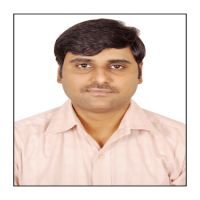
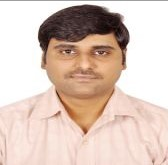
updated css gallery, faculty, recruiters, admissions,adv.

diff --git a/src/Advantage/MSIT-Advantage.js b/src/Advantage/MSIT-Advantage.js
@@ -17,7 +17,9 @@ const info = [
     name: "Learning By Doing",
     image: LBD,
     body:
-      "The methodology of “Learning By Doing” is a unique one adopted by MSIT. It aims at giving hands - on experience which helps the students understand the practical implementation aspects and the concepts associated with it. MSIT’s “Learning by Doing” method involves learning in a project-centric way. This helps students to solve problems by applying concepts. Each course is broken into manageable modules each of which is offered as a project to be worked on.",
+      "The methodology of “Learning By Doing” is a unique one adopted by MSIT. It aims at giving hands - on experience which helps the students understand the practical implementation aspects and the concepts associated with it. MSIT’s “Learning by Doing” method involves learning in a project-centric way. This helps students to solve problems by applying concepts.",
+    sub:
+      "Each course is broken into manageable modules each of which is offered as a project to be worked on. Students work in teams with a corporate-like environment. The students understand the concept while working on the project and submit the relevant tasks (deliverables) within the deadline specified by their mentors. The students get the required guidance and support at every level from the mentors who have a wide knowledge base which enhances the knowledge of the students. Each course is offered by a principal mentor and the student: mentor ratio at MSIT stands out to be 10:1 giving enough scope for the students to interact with their mentor whenever required. Personalized mentoring at MSIT aims at nurturing the students in every way. Students are given individual workstations with laptops and 24x7 internet facilities. Rich digital content with strong audio-visual support alongside constant mentoring provides them with the necessary platform, with lectures by eminent people also. Therefore, MSIT students gain hands-on experience from innovative learning solutions.",
   },
   {
     id: 2,
@@ -26,6 +28,8 @@ const info = [
     image: PCC,
     body:
       "Project centric curriculum offers practical hands on experience to master the implementation aspects of the concepts related to each course. Each course is broken into manageable modules each of which is offered as a project to be worked on. Students work in teams with a corporate like environment. The students understand the concept while working on the project and submit the relevant tasks (deliverables) within the deadline specified by their mentors. The students get the required guidance and support at every level from the mentors who have a wide knowledge base which would be helpful for the growth of students.",
+    sub:
+      "For example, if a student is being offered a course on data structures, he would be asked to work on a project like ‘Mini Google search engine’ which would enable them to understand the various algorithms involved and assimilate the underlying concepts to develop this project. Another simulation is, for the Networks course they need to come up with a File Protocol and similarly for the Database course ‘Airline Reservation System’. In addition to this, Concept tests, Programming Concepts and Quizzes are held. Therefore, MSIT students gain hands-on experience while conditioning themselves, and looking for innovative learning solutions.",
   },
   {
     id: 3,
@@ -34,6 +38,8 @@ const info = [
     image: SS,
     body:
       "In a rapidly changing work environment which is technology- driven and customer oriented in an information based economy, the reliance on Soft Skills is more relevant than ever. The training is spread throughout the year and not just limited to a few days. In-house training to develop LSRW (Listening, Speaking, Reading, Writing) skills, life skills training by corporate professionals and rich digital content (e-modules) represent the threefold approach adopted by MSIT.",
+    sub:
+      "Presentations, Group Discussions and Debates are given for weekly assessment. These are conducted by a mediator/facilitator, a Soft skills mentor who evaluates and critically analyses them and gives feedback while also providing tips for self-improvement. Also played are lectures by eminent speakers on life skills, motivational videos, apart from Role-Plays being conducted, to enable the students to face life boldly. Hence, a comprehensive Soft skills training turns the student to an effective solution provider. The latest inclusion is of theater based soft skills training methodology through which the students get acquainted with the essential business etiquette skills. They are given the freedom to think creatively and the aspect of logical as well as critical thinking is enhanced through role plays.",
   },
   {
     id: 4,
@@ -41,7 +47,9 @@ const info = [
     name: "Resources For Students",
     image: Infrastructuretwo,
     body:
-      "State of the Art Infrastructure: The students use laptops for performing their tasks, oriented towards their project work and a well-established wired and wireless network are made available 24x7. High end communication mechanisms are used for collaborating with globally distributed teams across learning centers. We will be providing high band-width internet connectivity, 24x7 lab facility, expert faculty.",
+      "State of the Art Infrastructure: The students use laptops for performing their tasks, oriented towards their project work and a well-established wired and wireless network are made available 24x7. High end communication mechanisms are used for collaborating with globally distributed teams across learning centers.",
+    sub:
+      "We will be providing high band-width internet connectivity, 24x7 lab facility, expert faculty.",
   },
   {
     id: 5,
@@ -49,7 +57,9 @@ const info = [
     name: "Infrastructure",
     image: Infrastructure,
     body:
-      "State of the art infrastructural facilities are provided to the MSIT students at each of the learning centers.The learning centers are located in universities with sprawling campuses marked by awesome buildings and spacious lawns. Every learning center has state-of-art computer laboratories which are open for 24x7 with ultra-modern workstations. All the systems are intra-networked and a high bandwidth Internet connection is given to all the students for 24x7.Library access is given to all the students in the respective learning centers.",
+      "State of the art infrastructural facilities are provided to the MSIT students at each of the learning centers.The learning centers are located in universities with sprawling campuses marked by awesome buildings and spacious lawns. Every learning center has state-of-art computer laboratories which are open for 24x7 with ultra-modern workstations.",
+    sub:
+      "All the systems are intra-networked and a high bandwidth Internet connection is given to all the students for 24x7.Library access is given to all the students in the respective learning centers.",
   },
 ];
 
@@ -99,6 +109,7 @@ class App extends React.Component {
                   //   qualification={post.qualification}
                   //   subtitle={post.subtitle}
                   body={post.body}
+                  sub={post.sub}
                 />
               </Fragment>
             );
@@ -113,6 +124,7 @@ class App extends React.Component {
                   //   qualification={post.qualification}
                   //   subtitle={post.subtitle}
                   body={post.body}
+                  sub={post.sub}
                 />
               </Fragment>
             );

diff --git a/src/AboutMsit/CertificationAndLearningCenters.js b/src/AboutMsit/CertificationAndLearningCenters.js
@@ -96,14 +96,17 @@ class App extends React.Component {
               </p>
 
               <table>
-                <tr style={{ backgroundColor: "#757070", color: "white" }}>
+                <tr
+                  className="table-color"
+                  style={{ backgroundColor: "#757070", color: "white" }}
+                >
                   <th>S.No</th>
                   <th>Learning Center</th>
                   <th>University</th>
                   <th>Intake</th>
                 </tr>
 
-                <tr>
+                <tr className="table-color">
                   <td>1</td>
                   <td>
                     <Link
@@ -120,7 +123,7 @@ class App extends React.Component {
                   <td>110</td>
                 </tr>
 
-                <tr>
+                <tr className="table-color">
                   <td>2</td>
                   <td>
                     <Link
@@ -137,7 +140,7 @@ class App extends React.Component {
                   <td>100</td>
                 </tr>
 
-                <tr>
+                <tr className="table-color">
                   <td>3</td>
                   <td>
                     <Link
@@ -154,7 +157,7 @@ class App extends React.Component {
                   <td>50</td>
                 </tr>
 
-                <tr>
+                <tr className="table-color">
                   <td>4</td>
                   <td>
                     <Link
@@ -171,7 +174,7 @@ class App extends React.Component {
                   <td>50</td>
                 </tr>
 
-                <tr>
+                <tr className="table-color">
                   <td>5</td>
                   <td>
                     <Link

diff --git a/src/components/Header.js b/src/components/Header.js
@@ -154,10 +154,16 @@ function App() {
                 Walk-in Process
               </Link>
 
-              <a className="dropdown-item" href="#">
+              <a
+                className="dropdown-item"
+                href="https://online.cbexams.com/RPS/MSIT/Practice_Instructions.aspx"
+              >
                 Mock-Test
               </a>
-              <a className="dropdown-item" href="#">
+              <a
+                className="dropdown-item"
+                href="https://www.msitprogram.net/admissions/"
+              >
                 Apply Online
               </a>
               <Link to="/schedule" className="dropdown-item">
@@ -198,7 +204,10 @@ function App() {
                 Placements
               </Link>
 
-              <a className="dropdown-item" href="#">
+              <a
+                className="dropdown-item"
+                href="https://www.msitprogram.net/Placementhistory.php"
+              >
                 Placements History
               </a>
 

diff --git a/src/AboutMsit/MsitProgram.js b/src/AboutMsit/MsitProgram.js
@@ -40,7 +40,9 @@ class App extends React.Component {
             id="charter"
             //   style={{ paddingBottom: 0 }}
           >
-            <h1 style={{ paddingBottom: "10px" }}>MSIT Charter</h1>
+            <h2 style={{ paddingBottom: "10px" }} className="title-text">
+              MSIT Charter
+            </h2>
             <p>
               To prepare very high quality IT professionals for a global market
               by grooming them in IT and Soft Skills.
@@ -63,9 +65,8 @@ class App extends React.Component {
               domains.
             </p>
           </div>
-          <p id="MsitProgram"></p>
-          <div className="content-overview shadows">
-            <h1>MSIT Program</h1>
+          <div className="content-overview shadows" id="MsitProgram">
+            <h2 className="title-text">MSIT Program</h2>
             <img
               src={MsitAdv}
               style={{ width: "38%", float: "right", paddingLeft: "2%" }}

diff --git a/src/faculty/SSmentors.js b/src/faculty/SSmentors.js
@@ -28,7 +28,7 @@ const SSstaff = [
   {
     id: 3,
     name: "Poolla Vaidehi",
-    image: require("../images/faculty/IT/6702.1091.noimage.jpg"),
+    image: require("../images/faculty/IT/Vydehi.jpg"),
     position: "Soft Skills Mentor",
     email: "vydehi@msitprogram.net",
   },
@@ -55,15 +55,15 @@ const SSstaff = [
   },
   {
     id: 7,
-    name: "Amrita Paul",
-    image: require("../images/faculty/IT/6702.1091.noimage.jpg"),
+    name: "Savitha Menon",
+    image: require("../images/faculty/IT/savitha (1).jpg"),
     position: "Soft Skills Mentor",
-    email: "amritapaul@msitprogram.net",
+    email: "savitha.menon@msitprogram.net",
   },
   {
     id: 8,
     name: "G Srujana",
-    image: require("../images/faculty/IT/6702.1091.noimage.jpg"),
+    image: require("../images/faculty/IT/Srujana.jpg"),
     position: "Soft Skills Mentor",
     email: "srujana.gankidi@msitprogram.net",
   },

diff --git a/src/faculty/ITmentors.js b/src/faculty/ITmentors.js
@@ -129,21 +129,21 @@ const ITstaff = [
   {
     id: 17,
     name: "Deepak kumar Reddy",
-    image: require("../images/faculty/IT/Deepak.jpg"),
+    image: require("../images/faculty/IT/Deepak_kumar.jpg"),
     position: "Assistant Mentor",
     email: "deepakbhimavarapu@msitprogram.net",
   },
   {
     id: 18,
     name: "A Manasa",
-    image: require("../images/faculty/IT/Manasa.jpg"),
+    image: require("../images/faculty/IT/Manasa_A.jpg"),
     position: "Assistant Mentor",
     email: "manasaalisetty@msitprogram.net",
   },
   {
     id: 19,
     name: "K Rajesh",
-    image: require("../images/faculty/IT/Rajesh_Kakumanu.jpg"),
+    image: require("../images/faculty/IT/Rajesh_k.jpg"),
     position: "Assistant Mentor",
     email: "k.rajeshkumar@msitprogram.net",
   },

diff --git a/src/Recruiters/Corp_relations.js b/src/Recruiters/Corp_relations.js
@@ -37,7 +37,7 @@ function App() {
 
           <div className="col-lg-8 ml-4">
             <h2 className="Left-title">
-              <strong>Computer Assosciates</strong>
+              <strong>Computer Associates</strong>
             </h2>
             <p className="sub-para">
               Computer Associates conduct monthly technical talks on topics like
@@ -116,7 +116,7 @@ function App() {
 
           <div className="col-lg-8 ml-4">
             <h2 className="Left-title">
-              <strong>Gati</strong>
+              <strong>GATI</strong>
             </h2>
             <p className="sub-para">
               GATI has offered practicum to MSITians to improve the in-transit

diff --git a/src/components/Right_advantage.js b/src/components/Right_advantage.js
@@ -1,5 +1,6 @@
 import React from "react";
 import "../css/staff.css";
+import Collapsible from "react-collapsible";
 
 function App(props) {
   return (
@@ -14,6 +15,13 @@ function App(props) {
         <h6 className="sub-title right">{props.subtitle}</h6>
         <blockquote className="sub-para general-text">
           <q>{props.body}</q>
+          <Collapsible
+            trigger="See More"
+            className="test"
+            style={{ display: "inline", color: "red" }}
+          >
+            {props.sub}
+          </Collapsible>
         </blockquote>
       </div>
       <div className="col-lg-3 order-1 order-md-1 order-lg-2 ml-4 Head-img">

diff --git a/src/faculty/AdminStaff.js b/src/faculty/AdminStaff.js
@@ -1,7 +1,7 @@
 import React from "react";
 import "../css/staff.css";
 import HeaderTitle from "../components/headerImage";
-import avatar from "../images/faculty/IT/images.png";
+import avatar from "../images/faculty/IT/6702.1091.noimage.jpg";
 import Info from "../components/Infocard.js";
 
 // Can import images in two ways
@@ -28,7 +28,7 @@ const SSstaff = [
   {
     id: 3,
     name: "T.V.Devi Prasad",
-    image: avatar,
+    image: require("../images/faculty/IT/devi_prasad.jpg"),
     position: "Placement Manager",
     email: "testname123@msitprogram.net",
   },

diff --git a/src/Admissions/Schedule.js b/src/Admissions/Schedule.js
@@ -15,10 +15,10 @@ function App() {
   return (
     <div>
       <HeaderImage name="Schedule" />
-      <div class="card-body mt-5 mb-5 pr-2 author-block">
+      <div class="container author-block mt-5">
         <div>
           <p>
-          <h1 className="preview">Admission-Schedule</h1>
+            <h1 className="preview">Admission-Schedule</h1>
             <strong>
               Due to the COVID-19 situation, the Entrance Exam Graduate Aptitude
               Test (GAT) is conducted online i.e. candidate can take the test

diff --git a/src/Admissions/feeStructure.js b/src/Admissions/feeStructure.js
@@ -5,7 +5,7 @@ function App() {
   return (
     <div>
       <HeaderImage name="Fee" />
-      <div className="card-body author-block mt-5 mb-5 pr-2">
+      <div className=" container author-block mt-5 mb-5">
         <h2 className="title">Fees & Tuition</h2>
         <div className="container">
           <table className="table" style={{ backgroundColor: "#e3f2fd" }}>

diff --git a/src/gallery/Images.js b/src/gallery/Images.js
@@ -54,7 +54,7 @@ class Images extends Component {
     return (
       //we call Popup page here by sending the url and a link to close the Popup
 
-      <div className="Images" style={{ backgroundColor: "#4f5b66" }}>
+      <div className="Images" style={{ backgroundColor: "whitesmoke" }}>
         {images}
 
         {this.state.showModal ? (
